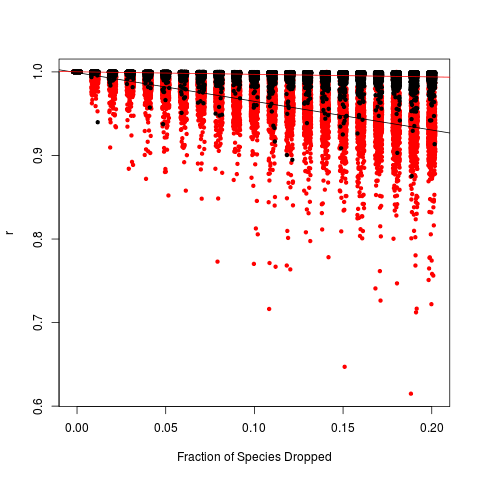
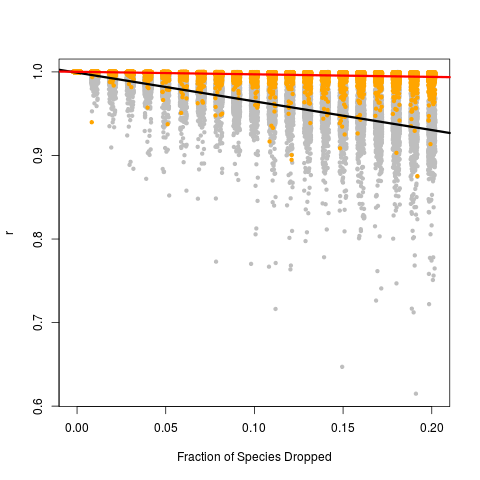
New data and analyses added along with text.

diff --git a/paper/edge_sims.tex b/paper/edge_sims.tex
@@ -8,6 +8,8 @@
 \DeclareGraphicsExtensions{.pdf,.png,.jpg}
 \usepackage{amssymb,amsmath}
 \usepackage{epstopdf}
+\usepackage{tocbibind}
+\usepackage[toc,page]{appendix}
 \usepackage{supertabular}
 \DeclareGraphicsRule{.tif}{png}{.png}{`convert #1 `dirname #1`/`basename #1 .tif`.png}
 \usepackage{url}
@@ -52,13 +54,12 @@
 \begin{document}
 \setlength{\parindent}{0pt}
 \section*{Title page}
-\textbf{Article type}: Perspectives
 
 \textbf{Article title}: Assessing the Effects Imputation on ED Values
 
 \textbf{Running head}: Assessing the Effects Imputation on ED Values
 
-\textbf{Authors:} K.\ Bodie Weedop$^{1*}$, William D.\ Pearse$^{1*}$\
+\textbf{Authors:} K.\ Bodie Weedop$^{1}$, William D.\ Pearse$^{1}$\
 
 $^1$ Department of Biology \& Ecology Center, Utah State University,
 5305 Old Main Hill, Logan UT, 84322
@@ -71,14 +72,13 @@ $^*$To whom correspondence should be addressed:
 \clearpage
 \section*{Abstract}
 
-Some text here.
 
 \textbf{Keywords}: 
 
 \clearpage
 \section*{Introduction}
 Evidence from the fossil record and present-day studies argue we are
-in the midst of, or entering, a sixth mass extinction \autocite{Barnosky2011; Ceballos2015}, such that more species than ever are
+in the midst of, or entering, a sixth mass extinction \autocite{Barnosky2011, Ceballos2015}, such that more species than ever are
 declining and/or in danger of extinction across a range of
 environments \autocite{Wake2008,Thomas2004}. Habitat destruction
 \autocite{Brooks2002}, invasive species
@@ -86,7 +86,7 @@ environments \autocite{Wake2008,Thomas2004}. Habitat destruction
 \autocite{Pounds2006}, and disease \autocite{Lips2006} are some of
 the leading causes of species declines globally. Conservation
 biologists seeks to overcome these declines and their detrimental
-effects on species populations. Even still, such researchers and
+effects on species populations. Even still, researchers and
 conservationists are confronted with ``Noah's Ark problem''
 \autocite{Weitzman1998}, or an unfortunate reality of insufficient,
 finite resources to confront the increasing amount species requiring
@@ -209,7 +209,7 @@ dropped. This is equivalent to Felsenstein’s threshold model
 
 \subsection*{Assessing the impact of phylogenetic imputations}
 We tested the impact of imputing missing species onto a clade of a
-particular size (Number of taxa = 2, 3, 4, 8, 16) which originated
+particular size (sizes 3 through 32) which originated
 from a tree of a particular size (Number of taxa = 64, 128, 256, 512,
 1024). To simulate the effect that phylogenetic imputation has upon
 these simulated trees, we randomly chose clades within each tree and
@@ -222,20 +222,69 @@ resolved. To ensure that this is representative of cases where
 imputation is used, 100 repetitions of this simulation were performed
 across different parameter settings.
 
-\begin{figure}[!ht]
-  \center
-  \includegraphics[width=\textwidth]{randomVsCluster.png}
-  \caption{\textbf{R-values plotted against the fraction of species 
-  dropped at random versus clustered manner.} The color of data points denote 
-  whether species were dropped at random (black; n = 100) or in clustered manner 
-  (red; n = 100). The regression lines are demonstrating the relationship when 
-  species are dropped at random (red) and in a clustered manner (black).}
-  \label{randomVsClustered}
-\end{figure}
+\section*{Results}
+\subsection*{Assessing the impact of missing species on EDGE-listing}
+
+ED values for remaining species were significantly affected by the
+fraction of species which were removed (Table 1). However, different
+effects are seen when dropping species at random and in clustered
+manner (Fig. \ref{randomVsClustered}). Dropping species at random has a reduced effect
+when compared to the effect which dropping species in a clustered
+manner has on remaining ED values (Fig. \ref{randomVsClustered}).
 
 \begin{figure}[!ht]
   \center
-  \includegraphics[width=\textwidth]{edModel.png}
+  \includegraphics[width=.5\textwidth]{randomVsCluster.png}
+  \caption{\textbf{R-values plotted against the fraction of species 
+  dropped at random versus clustered manner.} The color of data points denote 
+  whether species were dropped at random (orange; n = 100) or in clustered 
+  manner (grey; n = 100). The regression lines are demonstrating the relationship 
+  when species are dropped at random (black) and in a clustered manner (red).}
+  \label{randomVsClustered}
+\end{figure}
+
+\begin{table}[ht]
+  \centering
+  \begin{tabular}{rrrrr}
+    \hline
+   & Estimate & Std. Error & t value & Pr($>$$|$t$|$) \\
+    \hline
+  (Intercept) & 0.9991 & 0.0003 & 3752.33 & 0.0000 \\
+    Fraction of Species Dropped & -0.3434 & 0.0021 & -164.89 & 0.0000 \\
+    Random Treatment & -0.0004 & 0.0004 & -0.96 & 0.3360 \\
+    Number of Species Overall & 0.0000 & 0.0000 & 0.13 & 0.8932 \\
+    Fraction of Species Dropped:Random Treatment & 0.3129 & 0.0029 & 106.25 & 0.0000 \\
+    Random Treatment:Number of Species Overall & 0.0000 & 0.0000 & 9.20 & 0.0000 \\
+     \hline
+     \hline
+  \end{tabular}
+  \caption*{\textbf{Table 1: ANCOVA model summary describing the effect of 
+  dropping species on remaining species ED Values.} The fraction of species 
+  dropped significantly affects the the remaining ED values. Dropping the 
+  fraction at random had a reduced compared to dropping species in a clustered 
+  manner ($F_{29688, 5}$ = 12090, $R^{2}$ = 0.6706, p$<$0.0001).}
+  \end{table}
+
+\subsection*{Assessing the impact of phylogenetic imputations}
+
+ED values for the full tree while excluding the focal clade remain at
+1 and unaffected. However, ED values for the imputed clades are
+significantly affected by the use of imputation. As the size of the
+focal clade increases, the informative value of the ED values within the clade 
+decreases (Fig. \ref{imputationTrend}). However, even when imputing smaller 
+clades, ED values did not regularly reflect the true ED values (Table 2). 
+Our analysis demonstrates that measures of the original phylogeny such as 
+phylogentic diversity (PD), lambda, Colless' Index, skew, and kurtosis do not provide any 
+indication that imputation would negatively affect ED values (Appendix A). Additionally, just as imputed 
+ED values did not reflect true ED values, the rankings of species within the 
+focal clade were altered significantly (Fig. \ref{rankingError}). ED values 
+outside of the focal clade were not affected by imputation. While ED values 
+within the focal clades were affected exclusively by imputation, a notable 
+error rate in ranking crucial species correctly is present (Appendix B). 
+
+\begin{figure}[!ht]
+  \center
+  \includegraphics[width=.5\textwidth]{edModel.png}
   \caption{\textbf{R-values plotted against the number of species at focal clade.} 
   Each data point denotes a correlative comparison between ED values within the focal 
   clades where imputation has occurred. The regression line (red) and trend even closer to zero 
@@ -246,7 +295,7 @@ across different parameter settings.
 
 \begin{figure}[!ht]
   \center
-  \includegraphics[width=\textwidth]{rankingError.png}
+  \includegraphics[width=.5\textwidth]{rankingError.png}
   \caption{\textbf{Mean ranking error of species within the focal clade.} The 
   gradient on the right demonstrates average number of posistions within the 
   full ranking that focal clade species shifted from their true rank.
@@ -255,62 +304,113 @@ across different parameter settings.
   \label{rankingError}
 \end{figure}
 
-\section*{Results}
-\subsection*{Assessing the impact of missing species on EDGE-listing}
-
-ED values for remaining species were significantly affected by the
-fraction of species which were removed (Table 1). However, different
-effects are seen when dropping species at random and in clustered
-manner (Figure 1). Dropping species at random has a reduced effect
-when compared to the effect which dropping species in a clustered
-manner has on remaining ED values\ref{randomVsClustered}.
-
-\subsection*{Assessing the impact of phylogenetic imputations}
-
-ED values for the full tree while excluding the focal clade remain at
-1 and unaffected. However, ED values for the imputed clades are
-significantly affected by the use of imputation. As the size of the
-focal clade increases, the informative value of the ED values within the clade 
-decreases (Fig. 2)\ref{imputationTrend}. However, even when imputing smaller 
-clades, ED values did not regularly reflect the true ED values (Table 2)\ref{imputationModel}.
-Additionally, just as imputed ED values did not reflect true ED values, the rankings
-of species within the focal clade were altered significantly (Fig. 3)\ref{rankingError}.
-ED values outside of the focal clade were not affected by imputation.
-While ED values within the focal clades were affected exclusively by imputation, 
-a notable error rate in ranking crucial species correctly is present 
-(Fig. 1-6S).  
-
-
 \begin{table}[ht] 
 \centering
 \begin{tabular}{rrrrr}
   \hline
- & Estimate & Std. Error & t value & Pr($>$$|$t$|$) \\
-  \hline
- (Intercept) & 0.1914 & 0.0040 & 48.32 & 0.0000 \\
-   clade.size & -0.0036 & 0.0002 & -17.67 & 0.0000 \\
-  \hline
-  R$^{2}$ & 0.006 \\
-  Residual Std. Error & 0.385 (df = 47998) \\
-  F Statistic & 312.170$^{***}$ (df = 1; 47998) \\
-  \hline
-  \hline
-\textit{Note:}  & \multicolumn{1}{r}{$^{*}$p$<$0.1; $^{**}$p$<$0.05; $^{***}$p$<$0.01} \\
+  & Estimate & Std. Error & t value & Pr($>$$|$t$|$) \\
+   \hline
+ (Intercept) & 0.1852 & 0.0533 & 3.47 & 0.0005 \\
+   Size of Focal Clade& -0.0034 & 0.0002 & -16.56 & 0.0000 \\
+   Size of Phylogeny& -0.0001 & 0.0001 & -0.41 & 0.6855 \\
+   PD & 0.0001 & 0.0001 & 0.37 & 0.7108 \\
+   Lambda & -0.0012 & 0.0524 & -0.02 & 0.9812 \\
+   Colless' Index & 0.0016 & 0.0022 & 0.72 & 0.4687 \\
+   Skew & 0.0043 & 0.0088 & 0.48 & 0.6288 \\
+   Kurtosis & -0.0005 & 0.0009 & -0.63 & 0.5269 \\
+   \hline
+   \hline
 \end{tabular}
 \caption*{\textbf{Table 2: Effect of Clade Size on Imputed ED Values.} The 
 intercept describes that the correlation between the true and imputed values 
 begins quite low. As the clade size increases, this correlation only tends
-toward zero.}
+toward zero. The total number of species in the full phylogeny along with 
+measures of the true phylogenetic diversity, lambda, Colless' Index, skew, and kurtosis
+show no significant effect. ($F_{47992, 7}$ = 39.57, $R^{2}$ = 0.006, p$<$0.0001).}
+\label{imputationModel}
 \end{table}
 
+\clearpage
 \section*{Discussion}
-Some text here.
 
 \section*{Acknowledgments}
-\emph{Some text here if needed}.
+
 \clearpage
 \printbibliography
 
+\clearpage
+\appendix
+\section*{A. Effect of Measures of the True, Full Phylogenies}
+
+\begin{figure}[!ht]
+  \center
+  \includegraphics[width=.5\textwidth]{trueColless.png}
+  \caption{\textbf{Effect of the True Colless Index of FullPhylogeny.}}
+\end{figure}
+
+\begin{figure}[!ht]
+  \center
+  \includegraphics[width=.5\textwidth]{trueLambda.png}
+  \caption{\textbf{Effect of the True Lambda of Full Phylogeny.}}
+\end{figure}
+
+\begin{figure}[!ht]
+  \center
+  \includegraphics[width=.5\textwidth]{PD.png}
+  \caption{\textbf{Effect of True PD of Full Phylogeny.}}
+\end{figure}
+
+\begin{figure}[!ht]
+  \center
+  \includegraphics[width=.5\textwidth]{originalKurtosis.png}
+  \caption{\textbf{Effect of the True Kurtosis of Full Phylogeny.}}
+\end{figure}
+
+\begin{figure}[!ht]
+  \center
+  \includegraphics[width=.5\textwidth]{originalSkew.png}
+  \caption{\textbf{Effect of the True Skew of Full Phylogeny.}}
+\end{figure}
+
+\clearpage
+\clearpage
+\section*{B. Error Rate in Top Rankings}
+
+\begin{figure}[!ht]
+  \center
+  \includegraphics[width=.5\textwidth]{errorRate50.png}
+  \caption{\textbf{Mean error rate in the ranking of top 50 species.}}
+\end{figure}
+
+\begin{figure}[!ht]
+  \center
+  \includegraphics[width=.5\textwidth]{errorRate100.png}
+  \caption{\textbf{Mean error rate in the ranking of top 100 species.} }
+\end{figure}
+
+\begin{figure}[!ht]
+  \center
+  \includegraphics[width=.5\textwidth]{errorRate200.png}
+  \caption{\textbf{Mean error rate in the ranking of top 200 species.} }
+\end{figure}
+
+\begin{figure}[!ht]
+  \center
+  \includegraphics[width=.5\textwidth]{errorRate5pct.png}
+  \caption{\textbf{Mean error rate in the ranking of top 5\% of species.} }
+\end{figure}
+
+\begin{figure}[!ht]
+  \center
+  \includegraphics[width=.5\textwidth]{errorRate10pct.png}
+  \caption{\textbf{Mean error rate in the ranking of top 10\% of species.} }
+\end{figure}
+
+\begin{figure}[!ht]
+  \center
+  \includegraphics[width=.5\textwidth]{errorRate20pct.png}
+  \caption{\textbf{Mean error rate in the ranking of top 20\% of species.}}
+\end{figure}
 
 \end{document}
 %%% Local Variables:
